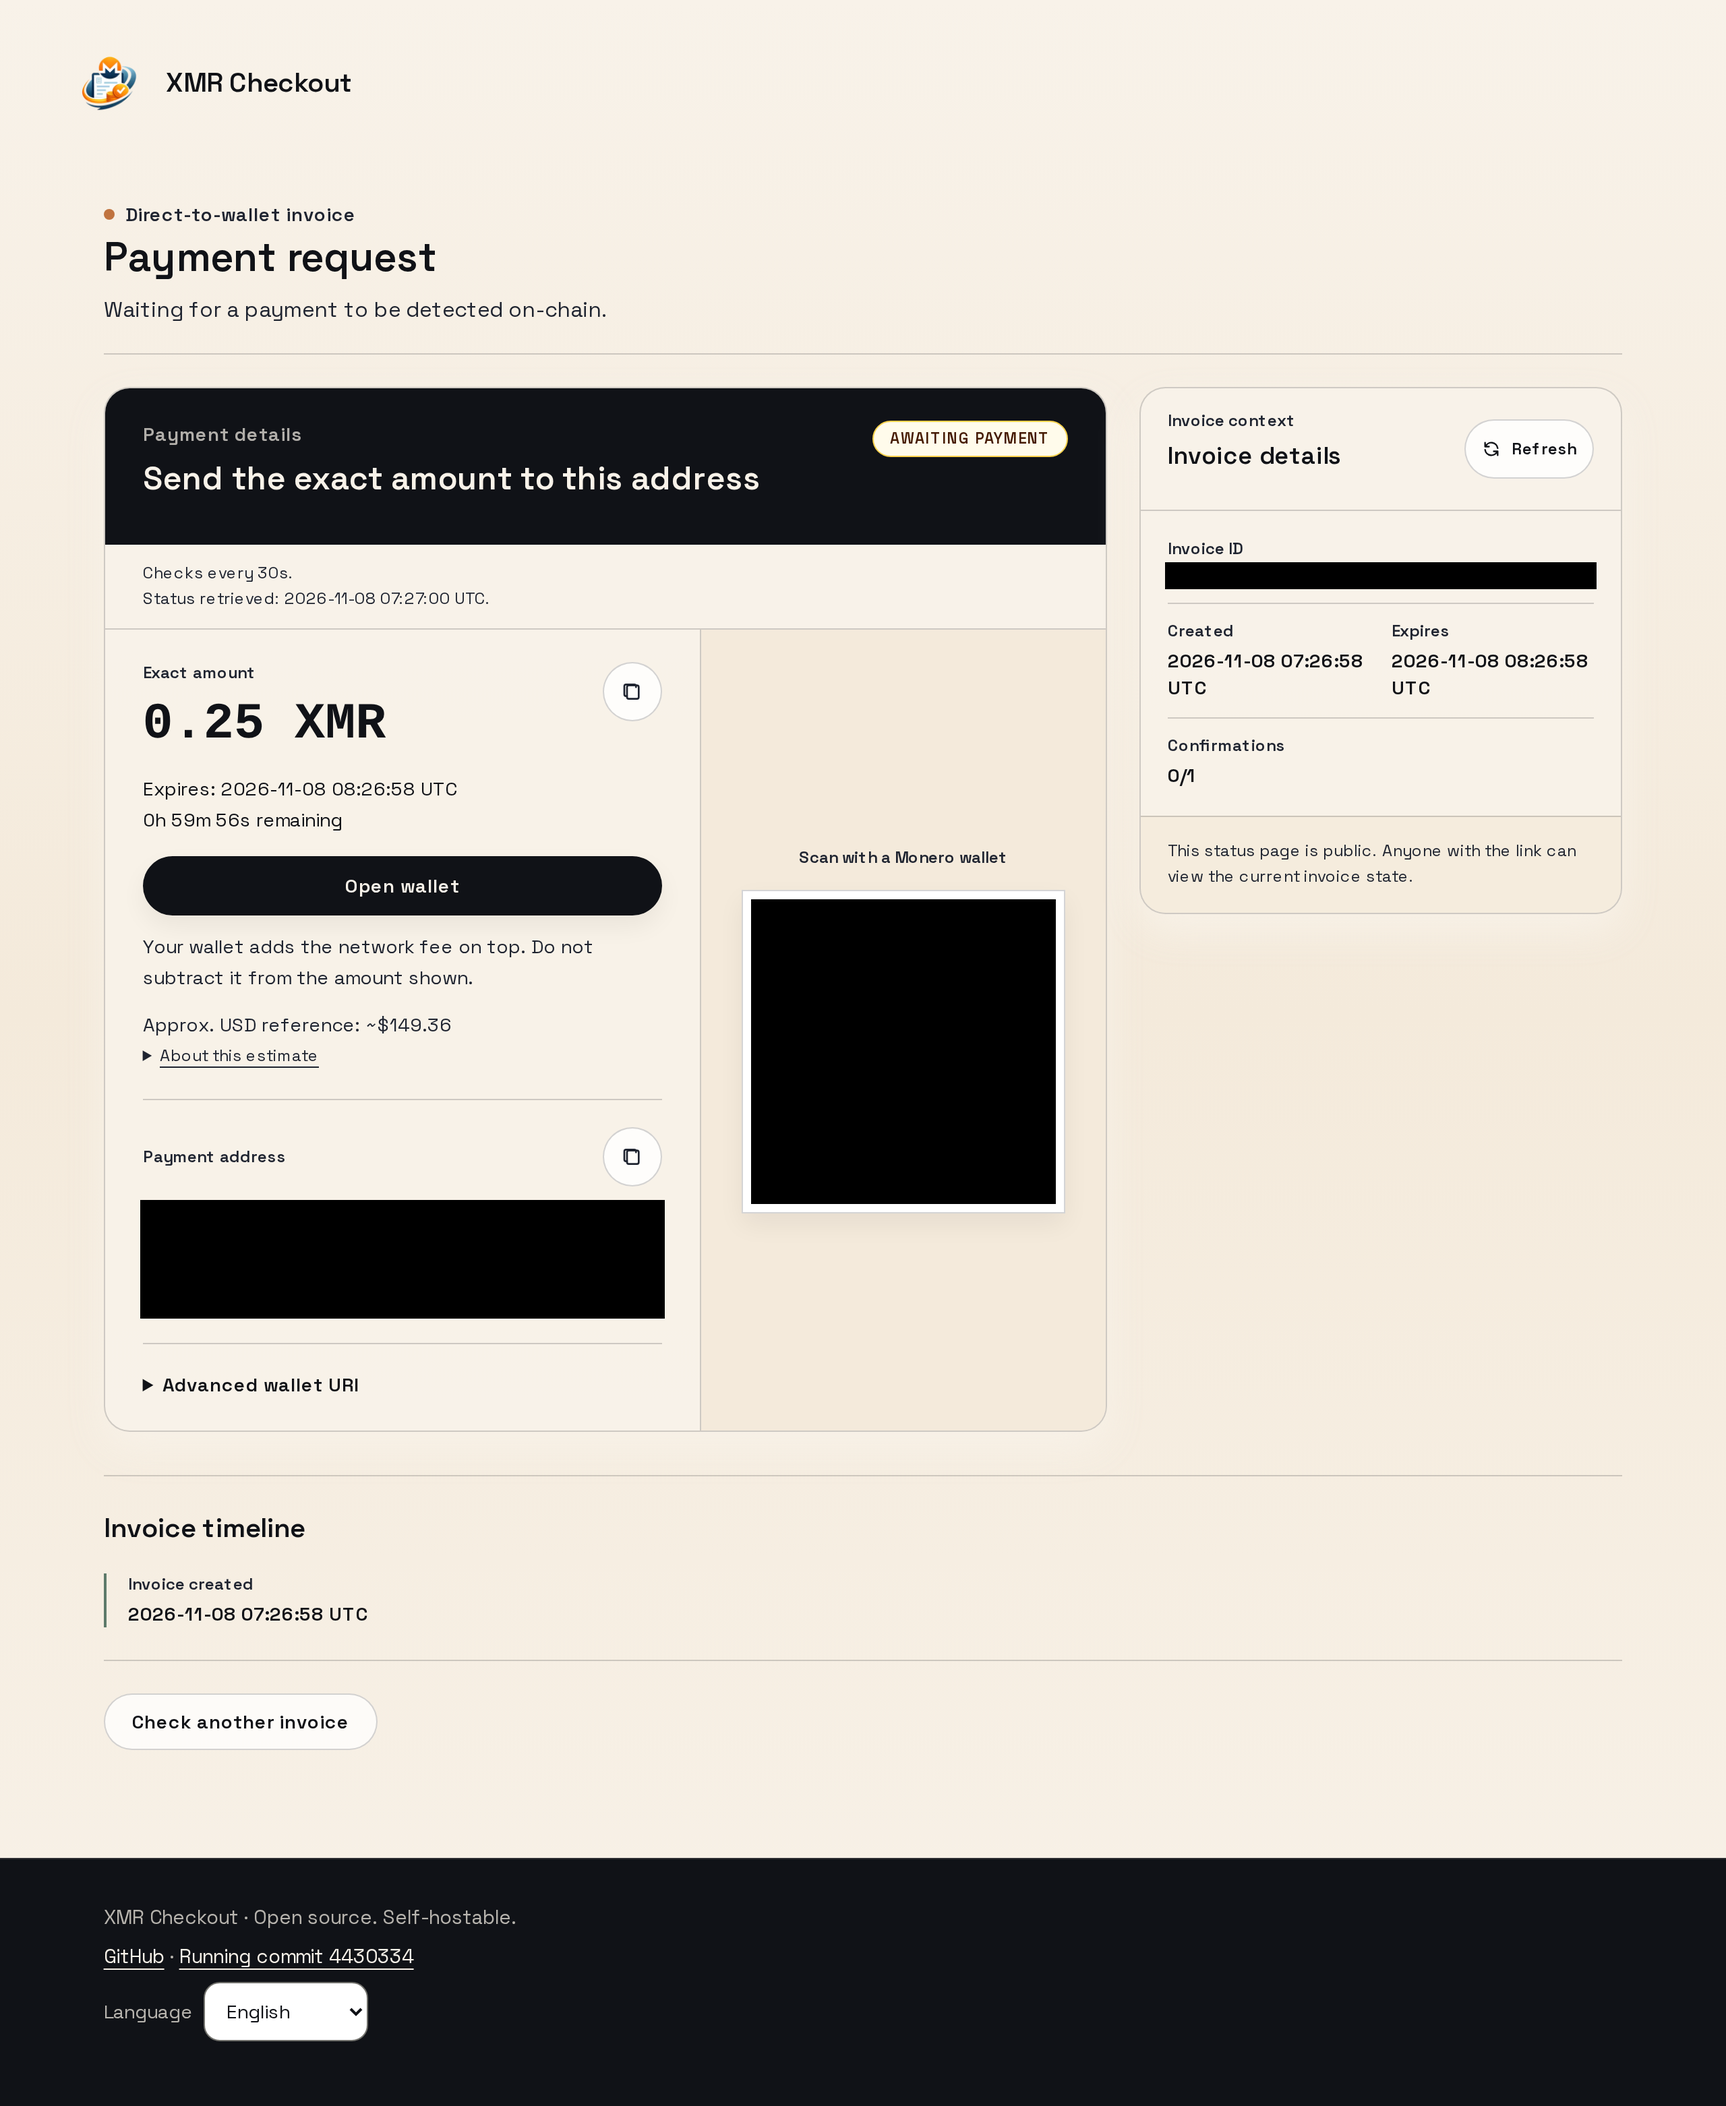
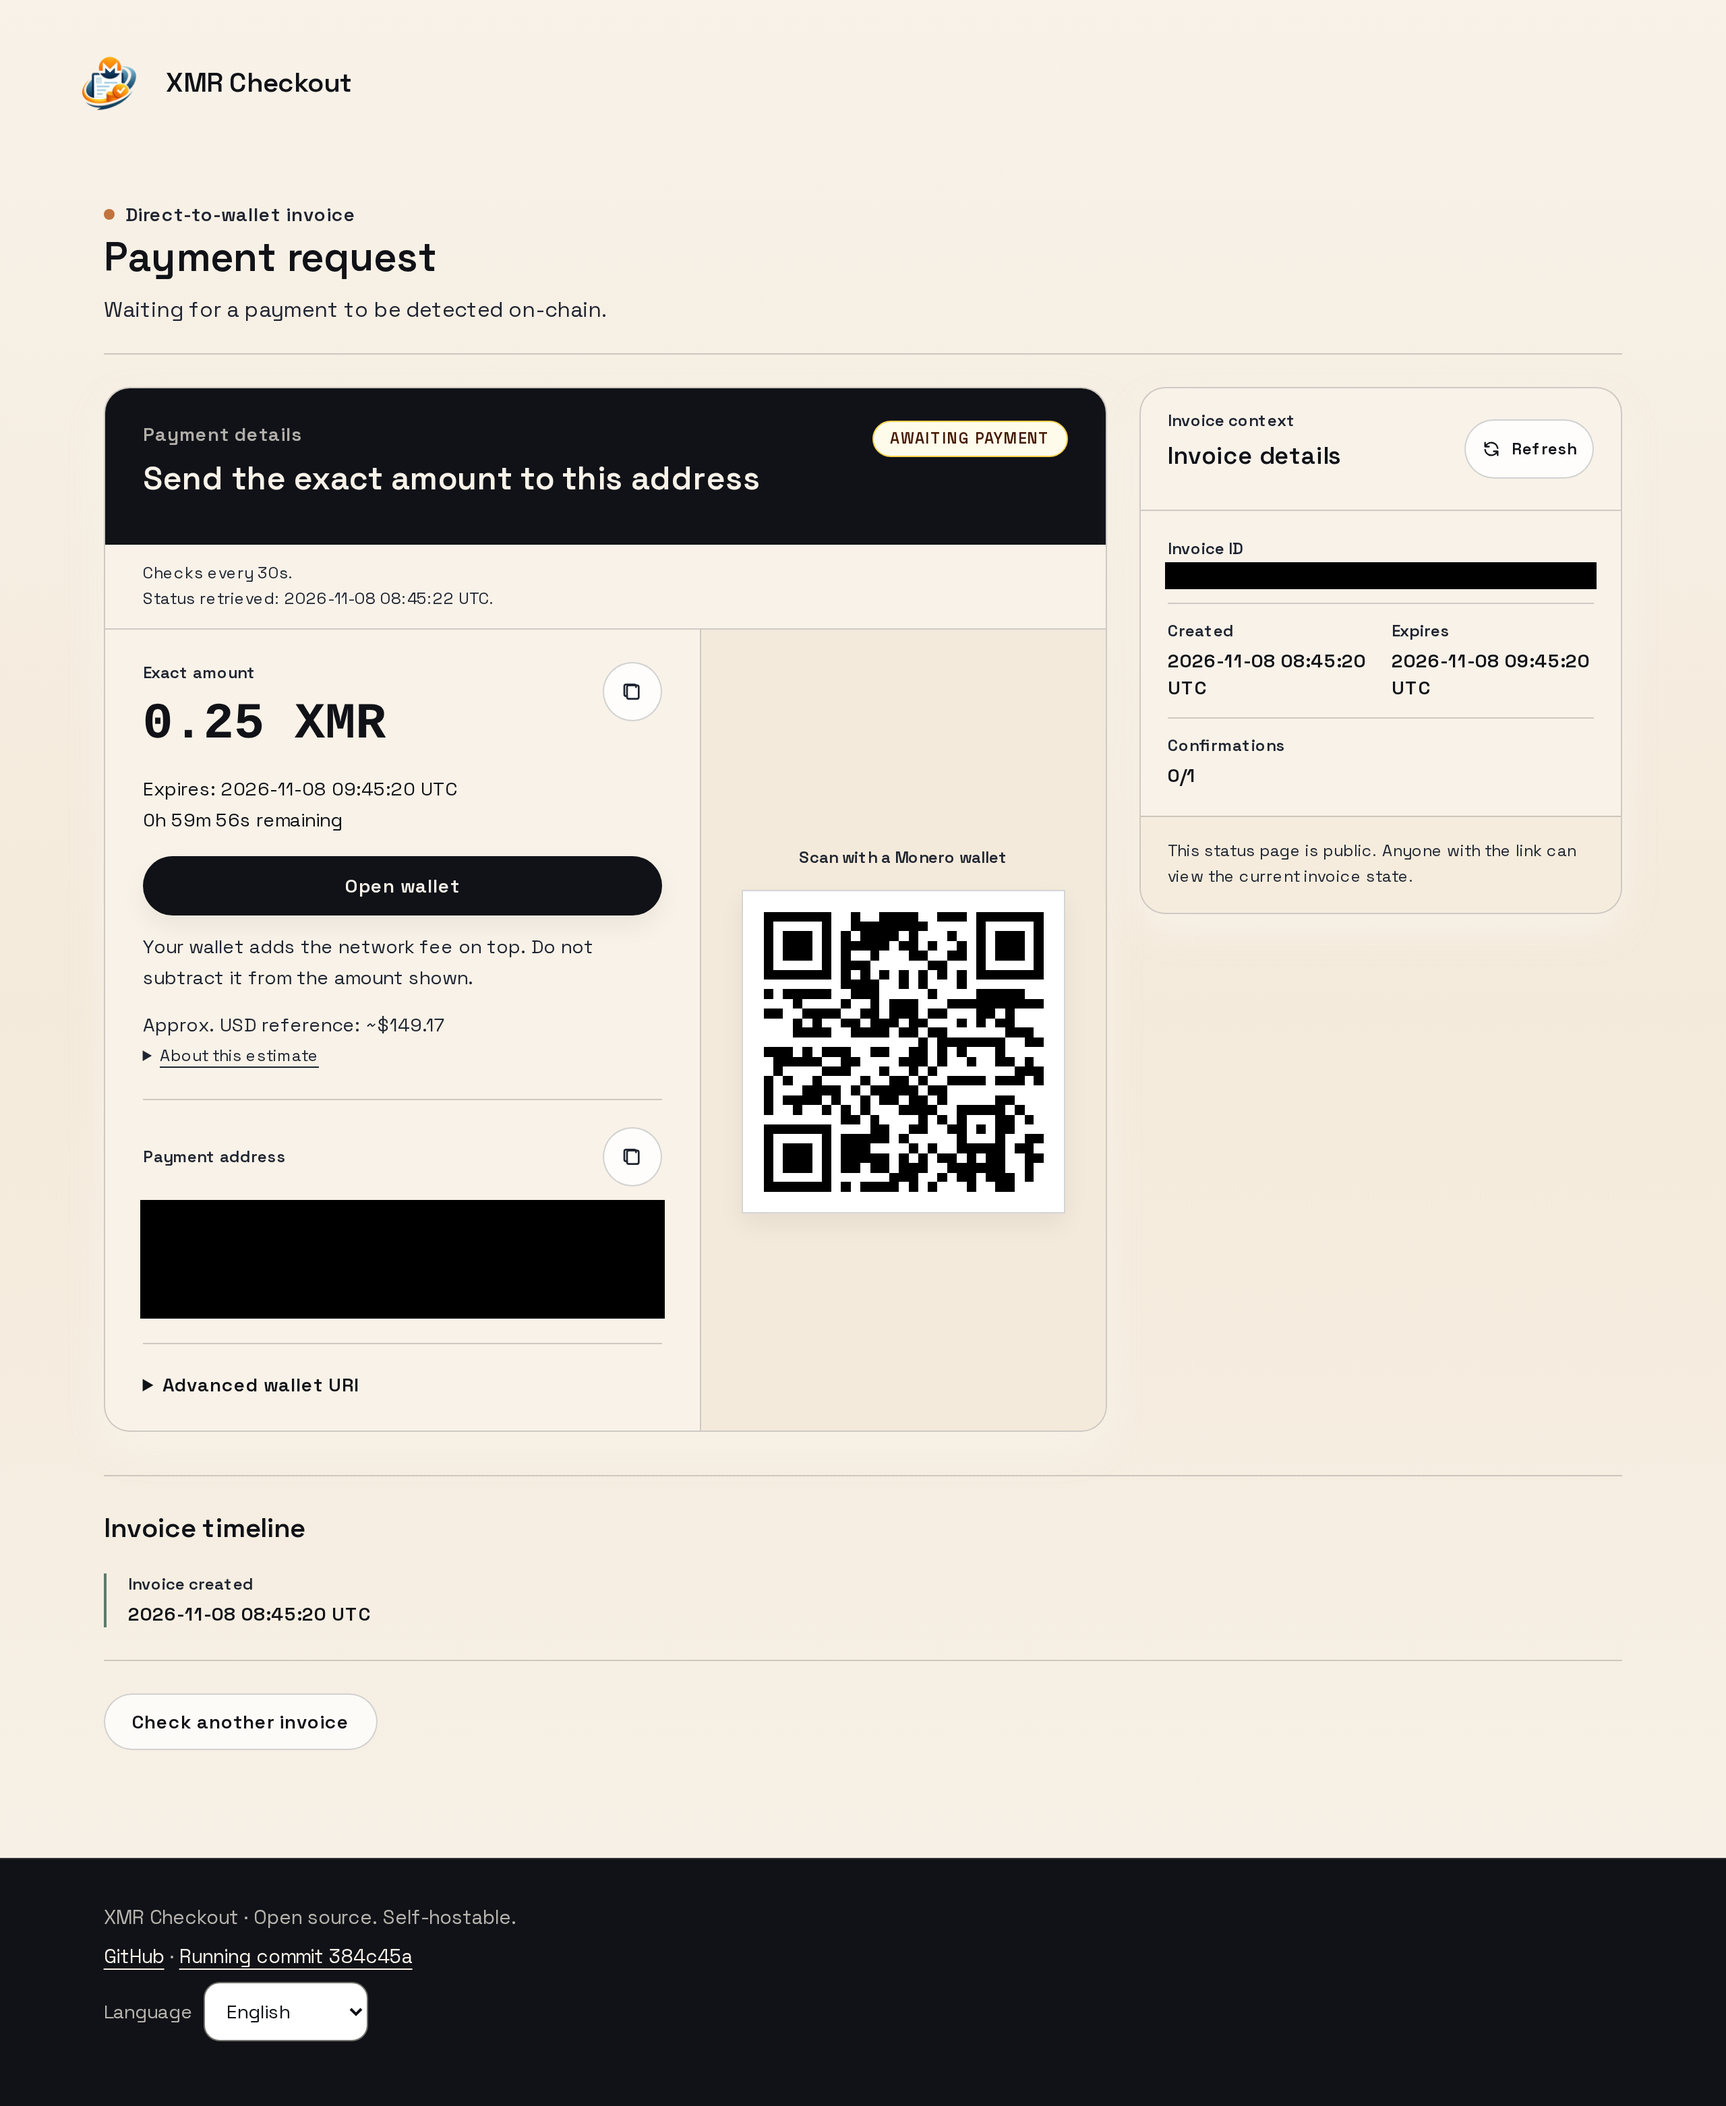
Replace the blacked-out QR codes in the README screenshots with a placeholder QR code

Changed region(s): [[0.4375, 0.4036, 0.625, 0.5899], [0.75, 0.3105, 0.7812, 0.3415], [0.1562, 0.7452, 0.1875, 0.7762]]

diff --git a/README.md b/README.md
@@ -67,7 +67,7 @@ The guides cover four common paths into the project:
 
 ## Screenshots
 
-Post-login UI. Addresses, subaddresses, invoice IDs and QR codes are blacked out.
+Post-login UI. Addresses, subaddresses and invoice IDs are blacked out, and payment QR codes are replaced with a placeholder QR code.
 
 ### Dashboard
 
@@ -95,7 +95,7 @@ Post-login UI. Addresses, subaddresses, invoice IDs and QR codes are blacked out
 
 The terminal page on a phone or tablet at the till: the merchant enters the amount, then the customer scans the payment QR code.
 
-<img src="screenshots/terminal_till.png" width="320" alt="Terminal page with an amount entered on the keypad and a note" /> <img src="screenshots/terminal_payment.png" width="320" alt="Terminal payment page showing the amount and the payment QR code (blacked out) for the customer to scan" />
+<img src="screenshots/terminal_till.png" width="320" alt="Terminal page with an amount entered on the keypad and a note" /> <img src="screenshots/terminal_payment.png" width="320" alt="Terminal payment page showing the amount and a placeholder QR code for the customer to scan" />
 
 ### Public invoice page
 
